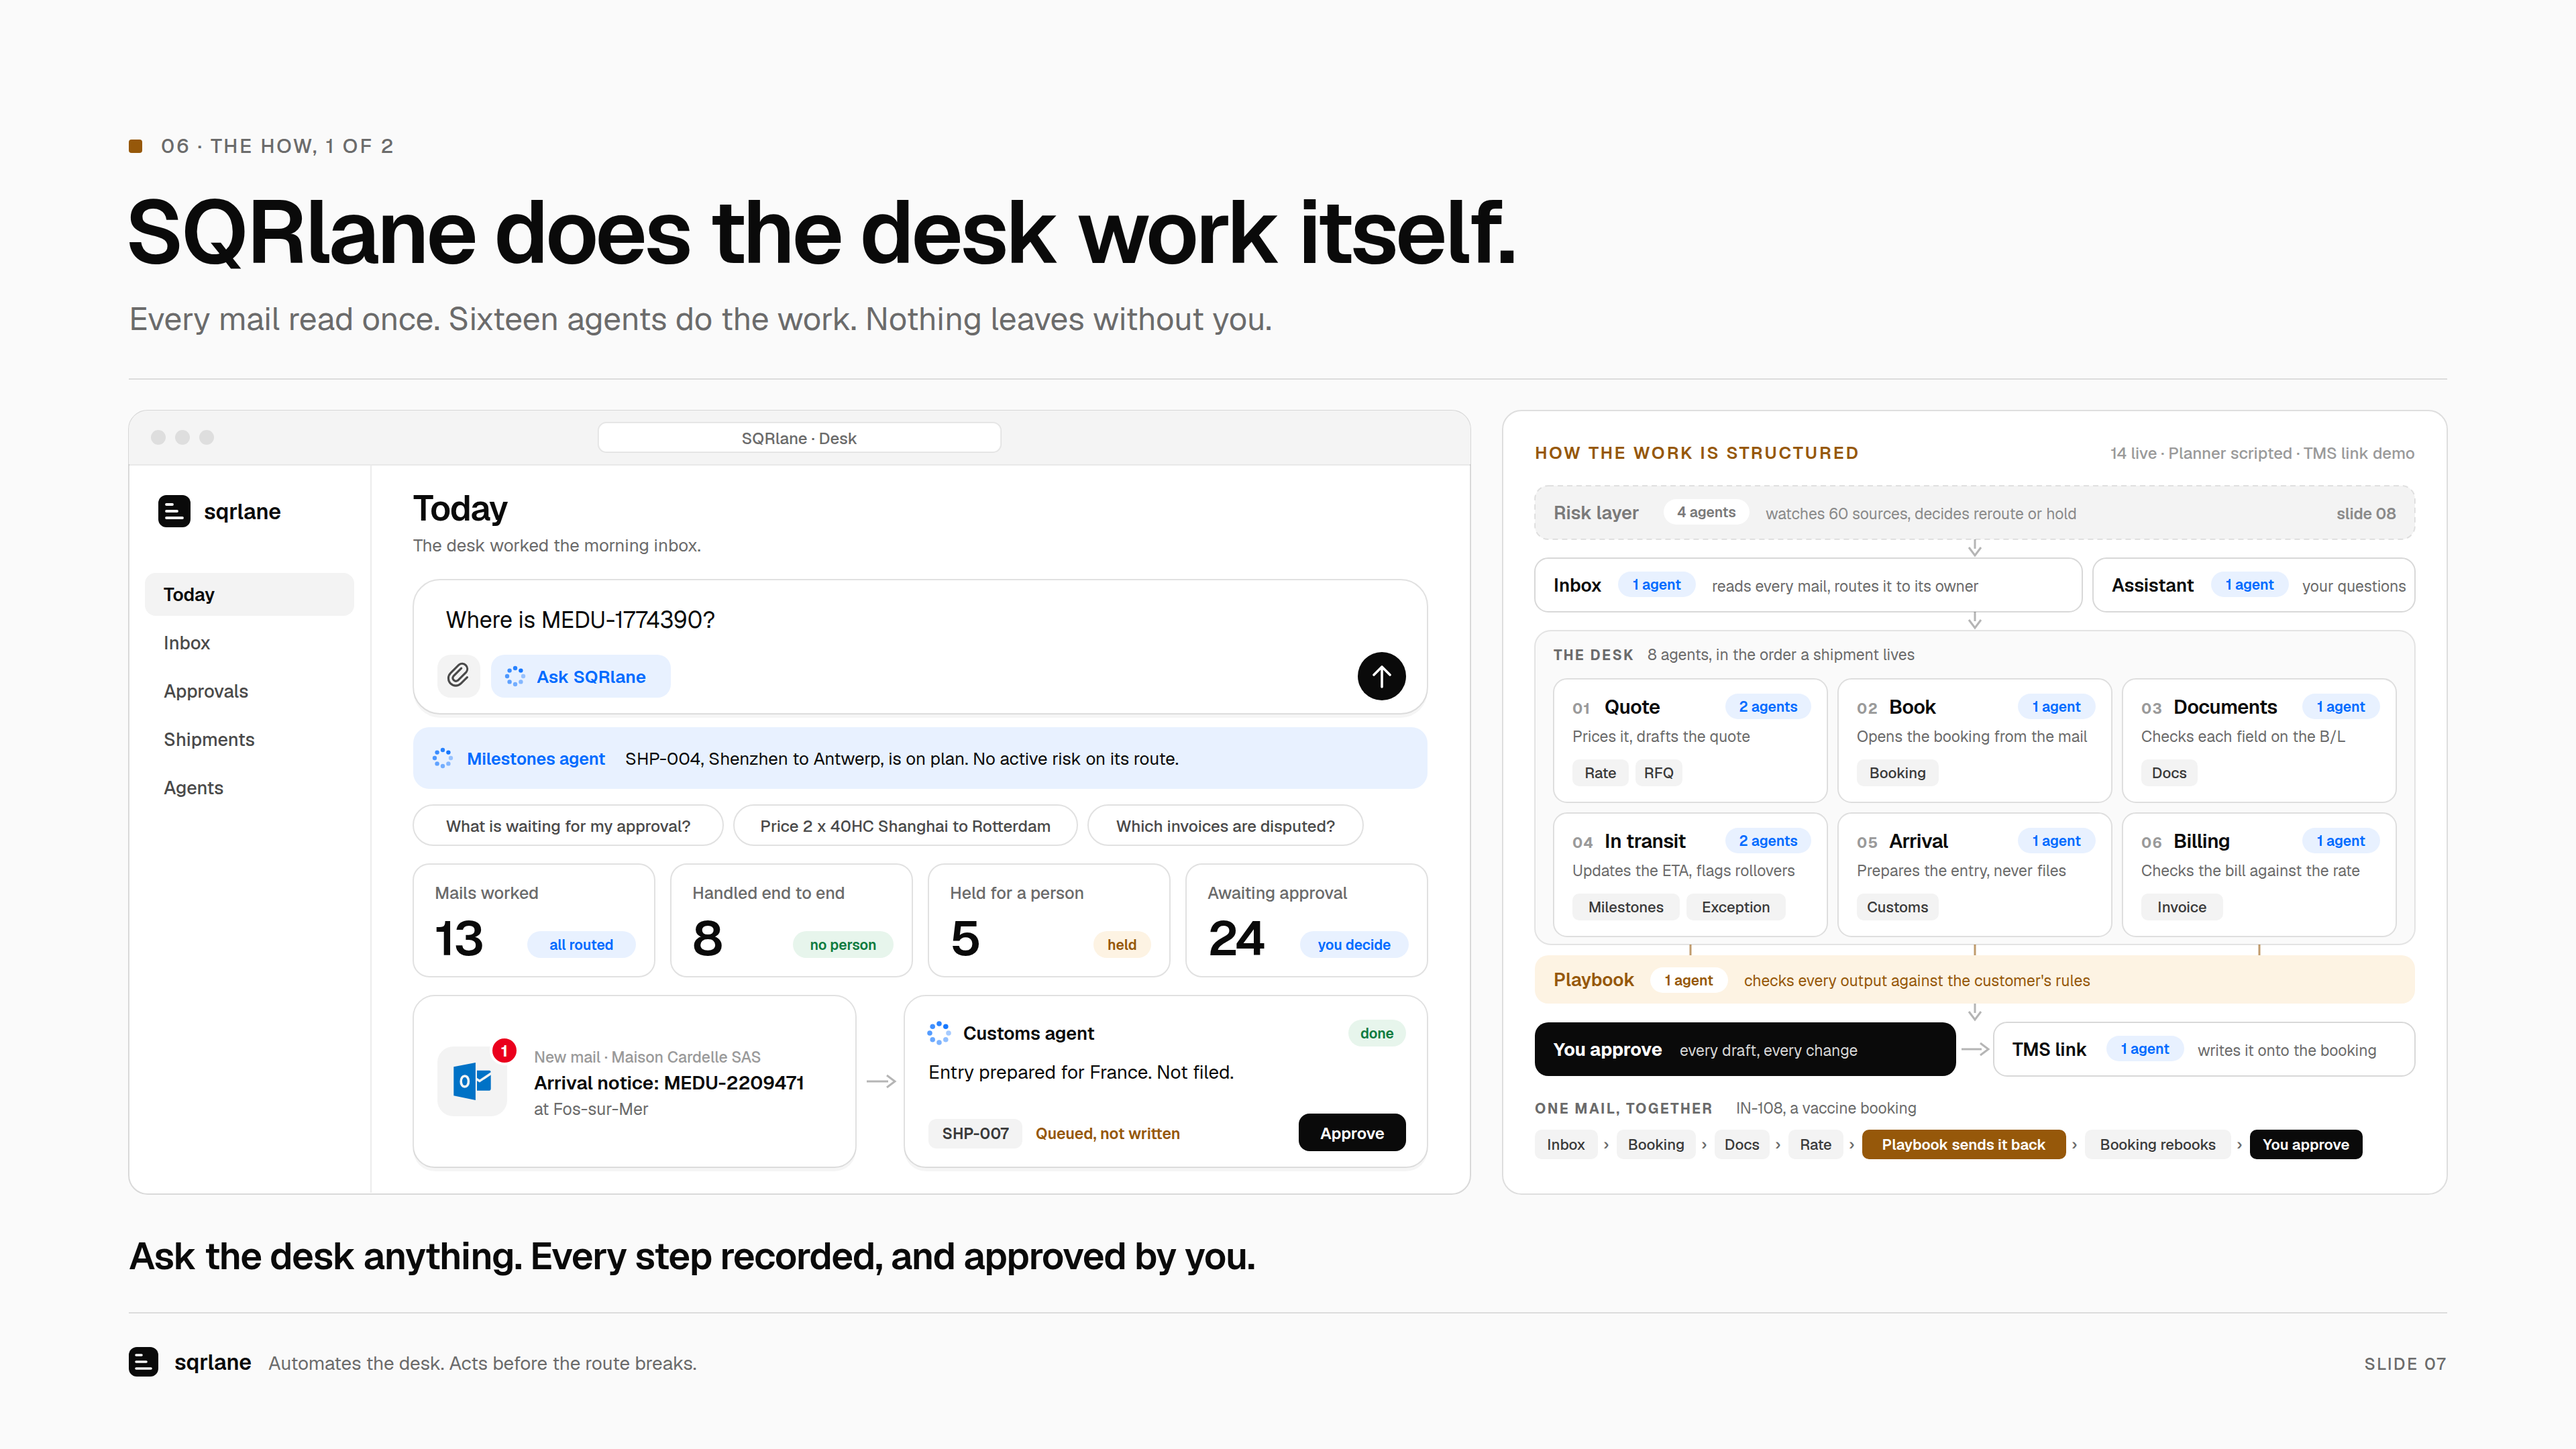
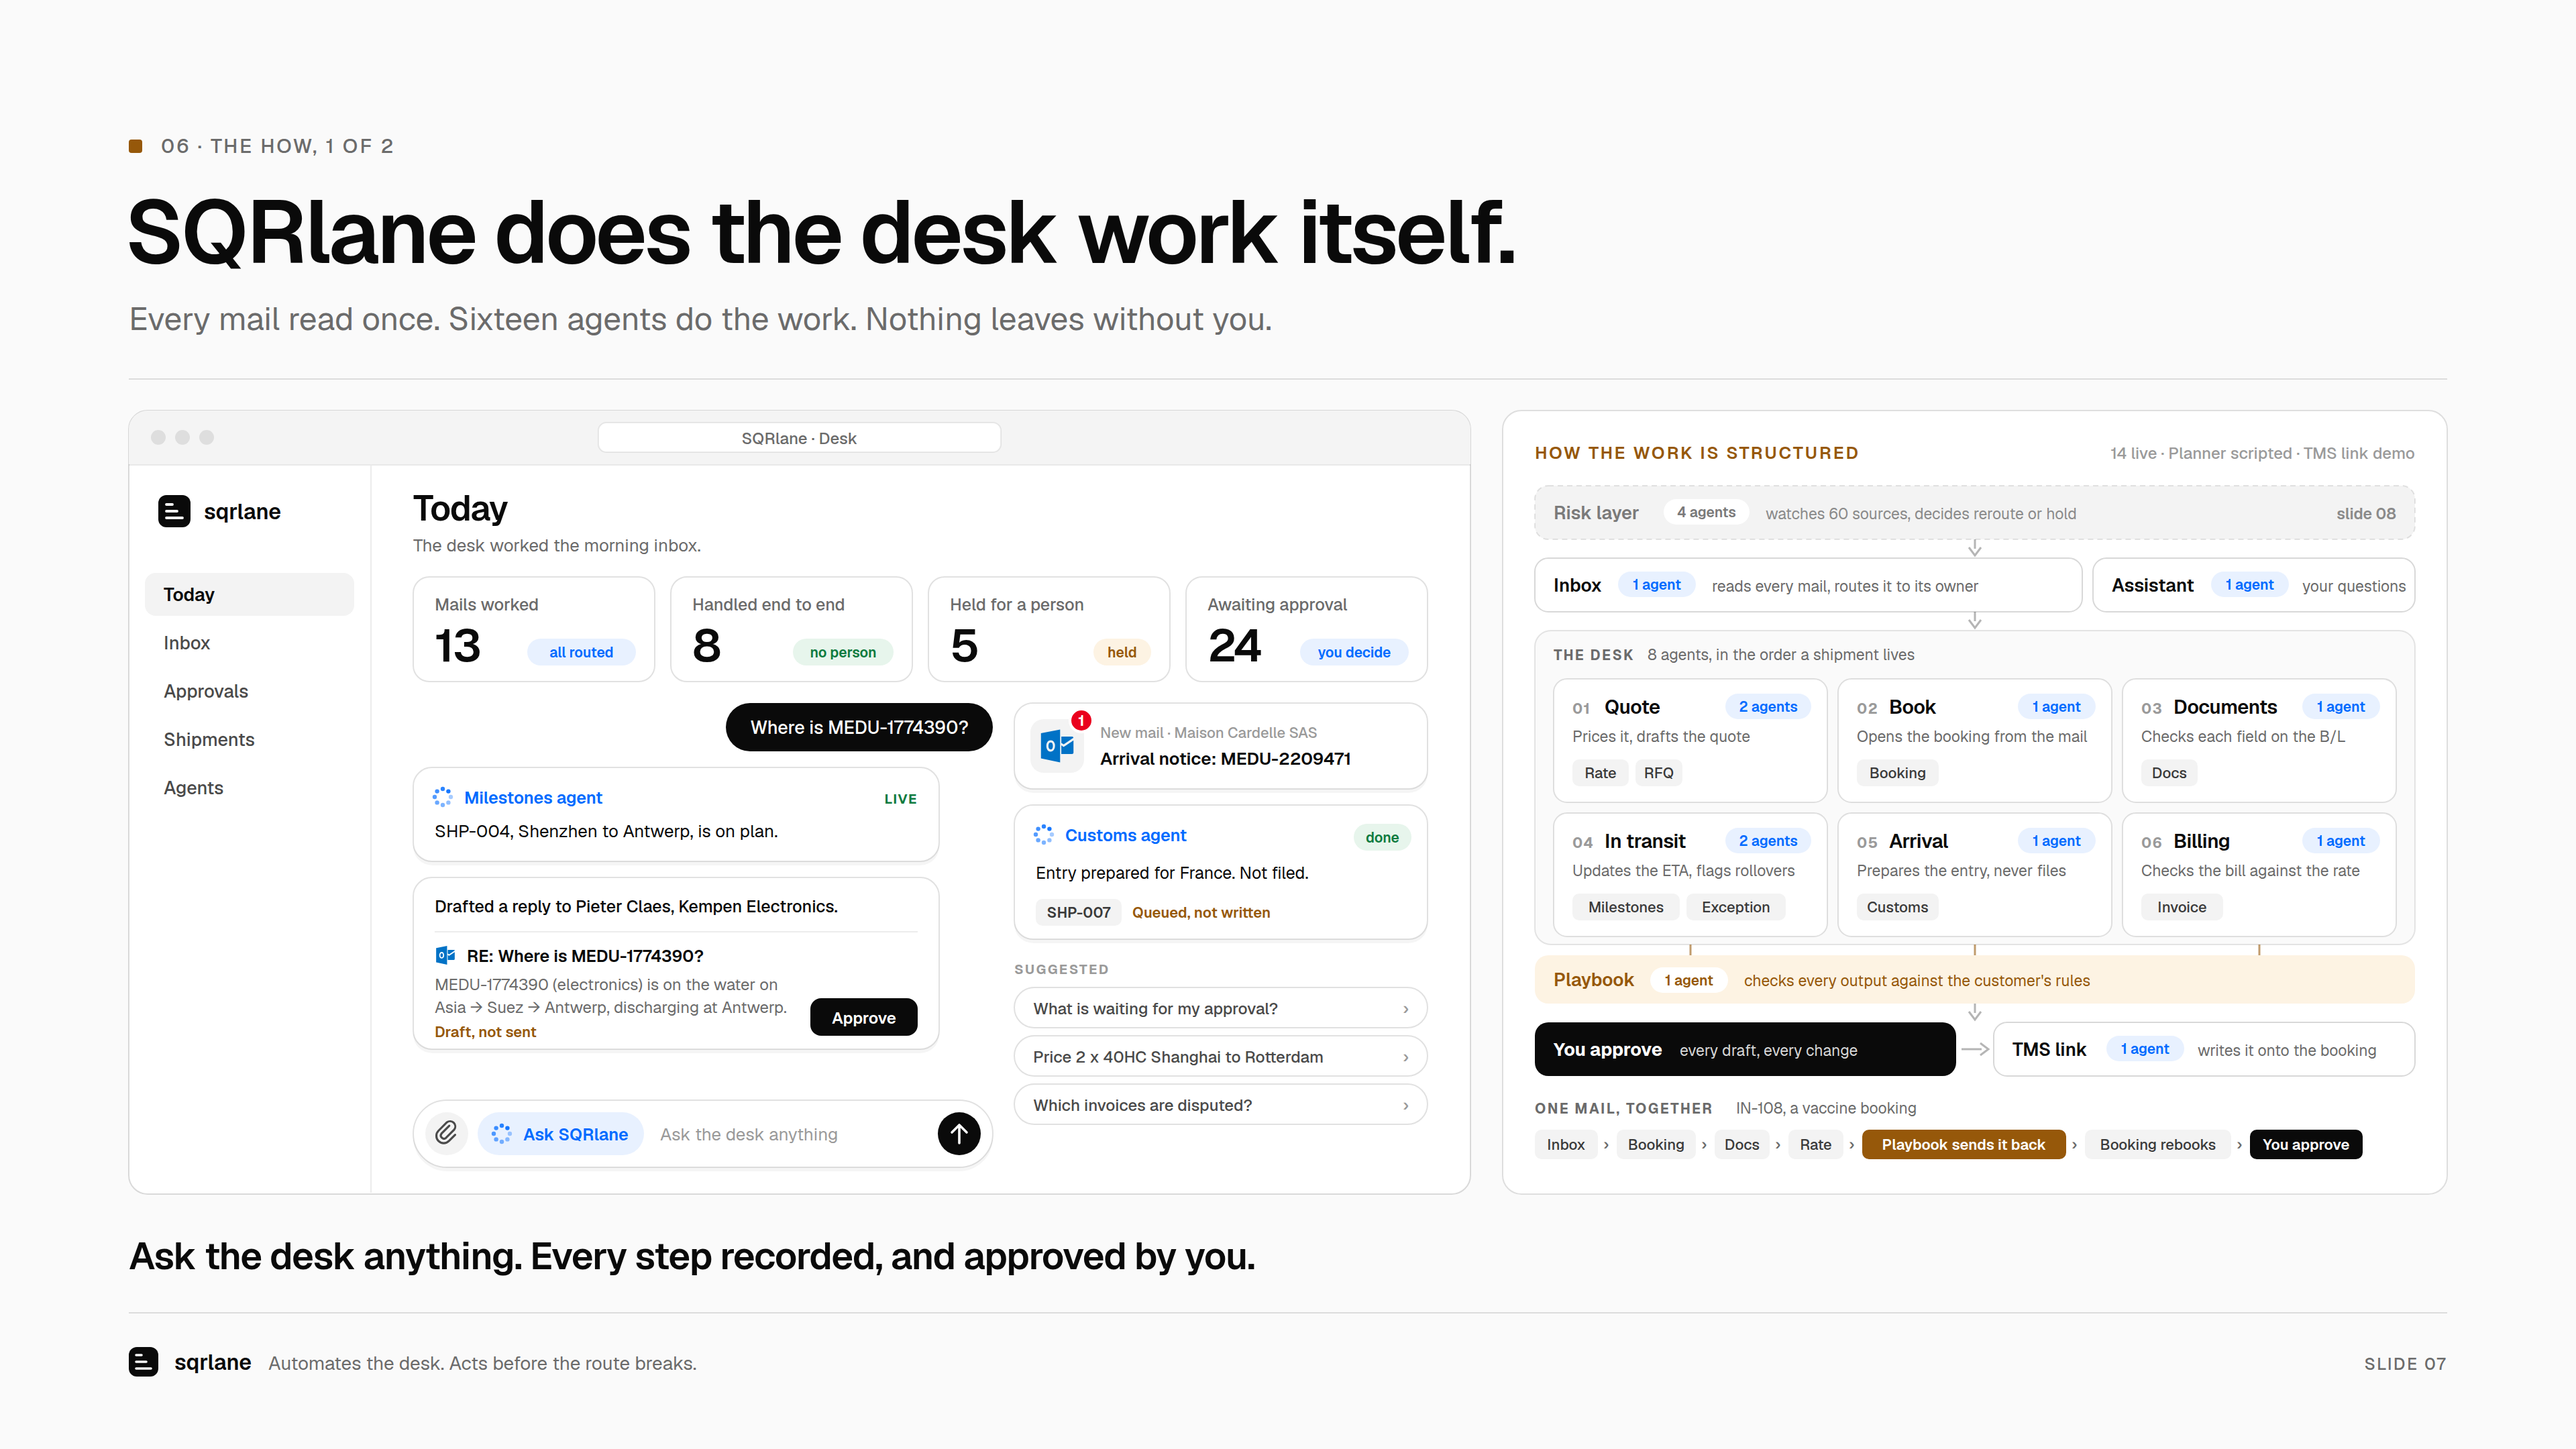
Deck v2 slide 07: the Ask area as a conversation, with the agent's draft waiting for approval
The question, the Milestones agent's answer and its real drafted reply to IN-106 read as a
thread, with the input at the foot; the mail feed and suggested questions sit beside it.

Claude-Session: https://claude.ai/code/session_014BsH9ow2RbGmbV9G28PBg8

Changed region(s): [[0.1562, 0.4032, 0.5625, 0.8065], [0.375, 0.4032, 0.4062, 0.4343]]

diff --git a/deck/v2/build_07.py b/deck/v2/build_07.py
@@ -76,45 +76,8 @@ s.T(MX, TOP + 82, "Today", 26, 600, ls=-0.6)
 s.T(MX, TOP + 105, "The desk worked the morning inbox.", 13, 400, MUT)
 s.end()
 
-# ---- the Ask box: a question, to the agent who owns it
-AY, AH = TOP + 126, 100
-s.g("ask-box")
-s.R(MX, AY + 3, MW, AH, INK, 20, ' fill-opacity="0.04"')          # soft shadow
-s.R(MX, AY, MW, AH, CARD, 20, f' stroke="{INK}" stroke-opacity="0.12"')
-s.T(MX + 24, AY + 36, "Where is MEDU-1774390?", 17, 400, INK)
-by = AY + AH - 44
-s.R(MX + 18, by, 32, 32, GREY_BG, 10)
-s.raw(f'<path d="M{MX+39} {by+11} l-7.5 7.5 a3 3 0 0 0 4.2 4.2 l8 -8 a5 5 0 0 0 -7 -7 l-8 8 a7 7 0 0 0 9.9 9.9 l6 -6" '
-      f'transform="translate(-2 -2) scale(0.78) translate({(MX+34)*0.282:.1f} {(by+16)*0.282:.1f})" stroke="#4A4A4A" stroke-width="2" fill="none" stroke-linecap="round"/>')
-s.R(MX + 58, by, 134, 32, BLUE_BG, 10)
-agent_mark(MX + 76, by + 16)
-s.T(MX + 92, by + 21, "Ask SQRlane", 13, 600, BLUE)
-s.raw(f'<circle cx="{MX + MW - 34}" cy="{by + 16}" r="18" fill="{INK}"/>')
-s.raw(f'<path d="M{MX+MW-34} {by+24} v-15 M{MX+MW-40} {by+15} l6 -6 l6 6" stroke="{CARD}" stroke-width="1.8" fill="none" stroke-linecap="round" stroke-linejoin="round"/>')
-s.end()
-
-# the answer - src/ask.py routes this question to the Milestones agent; its own words
-s.g("ask-answer")
-ay = AY + AH + 10
-s.R(MX, ay, MW, 46, BLUE_BG, 12)
-agent_mark(MX + 22, ay + 23)
-s.T(MX + 40, ay + 28, "Milestones agent", 12.5, 600, BLUE)
-s.T(MX + 158, ay + 28, "SHP-004, Shenzhen to Antwerp, is on plan. No active risk on its route.", 13, 400, INK)
-s.end()
-
-# suggested questions - each one answered by src/ask.py today
-s.g("suggestions")
-sy = ay + 58
-sx = MX
-for q in ("What is waiting for my approval?", "Price 2 x 40HC Shanghai to Rotterdam", "Which invoices are disputed?"):
-    w = round(len(q) * 6.4 + 26)
-    s.R(sx, sy, w, 30, CARD, 15, f' stroke="{INK}" stroke-opacity="0.12"')
-    s.T(sx + w / 2, sy + 20, q, 12, 500, "#4A4A4A", anchor="middle")
-    sx += w + 8
-s.end()
-
 # ---- four stat cards: label, pill, one number
-SCY, SCH, gap = sy + 44, 84, 12
+SCY, SCH, gap = TOP + 124, 78, 12
 scw = (MW - 3 * gap) / 4
 STATS = [("Mails worked", "all routed", BLUE_BG, BLUE, "13"),
          ("Handled end to end", "no person", GREEN_BG, GREEN, "8"),
@@ -124,43 +87,91 @@ s.g("stat-cards")
 for i, (lab, pl, pf, pi, val) in enumerate(STATS):
     x = MX + i * (scw + gap)
     s.card(x, SCY, scw, SCH, 12)
-    s.T(x + 16, SCY + 26, lab, 12.5, 500, MUT)
-    s.T(x + 16, SCY + 68, val, 36, 600, ls=-1.2)
-    pill(x + scw - 14, SCY + 50, pl, pf, pi)
+    s.T(x + 16, SCY + 25, lab, 12.5, 500, MUT)
+    s.T(x + 16, SCY + 63, val, 34, 600, ls=-1.2)
+    pill(x + scw - 14, SCY + 46, pl, pf, pi)
 s.end()
 
-# ---- a mail lands, an agent works it (IN-111 and the Customs agent's own output)
-NY = SCY + SCH + 14; NH = BOT - 20 - NY
-NW = 330
-s.g("mail-arrives")
-s.R(MX, NY + 3, NW, NH, INK, 16, ' fill-opacity="0.04"')
-s.R(MX, NY, NW, NH, CARD, 16, f' stroke="{INK}" stroke-opacity="0.12"')
-ix, iy = MX + 18, NY + NH / 2 - 26
-s.R(ix, iy, 52, 52, GREY_BG, 12)
-mark("Outlook", ix + 10, iy + 10, 32)
-s.raw(f'<circle cx="{ix + 50}" cy="{iy + 3}" r="10" fill="{RED}" stroke="{CARD}" stroke-width="2"/>')
-s.T(ix + 50, iy + 7.5, "1", 11.5, 700, CARD, anchor="middle")
-tx = ix + 72
-s.T(tx, NY + NH / 2 - 14, "New mail · Maison Cardelle SAS", 11.5, 500, GREY)
-s.T(tx, NY + NH / 2 + 6, "Arrival notice: MEDU-2209471", 14, 600)
-s.T(tx, NY + NH / 2 + 25, "at Fos-sur-Mer", 12.5, 400, MUT)
+CY0 = SCY + SCH + 16                      # the two feeds start here
+LW_ = 432                                 # the conversation's width
+RX_ = MX + LW_ + 16; RW_ = MX + MW - RX_  # the mail feed's
+
+def soft_card(x, y, w, h, r=14, fill=CARD):
+    s.R(x, y + 3, w, h, INK, r, ' fill-opacity="0.04"')
+    s.R(x, y, w, h, fill, r, f' stroke="{INK}" stroke-opacity="0.12"')
+
+# ---- the conversation: you ask, the owning agent answers, its draft waits for you.
+# Answer: ask.ask() routes the question to the Milestones agent (its own words, date left
+# out because bookings age forward). Draft: the Milestones agent's real reply to IN-106,
+# the same question from the customer, "DRAFT - not sent".
+s.g("conversation")
+cy = CY0
+q = "Where is MEDU-1774390?"
+qw = round(len(q) * 7.6 + 32)
+s.R(MX + LW_ - qw, cy, qw, 36, INK, 18)
+s.T(MX + LW_ - qw / 2, cy + 23, q, 13.5, 500, CARD, anchor="middle")
+cy += 48
+soft_card(MX, cy, LW_ - 40, 70)
+agent_mark(MX + 22, cy + 22)
+s.T(MX + 38, cy + 27, "Milestones agent", 12.5, 600, BLUE)
+s.T(MX + LW_ - 56, cy + 27, "LIVE", 10, 700, GREEN, anchor="end", ls=0.8)
+s.T(MX + 16, cy + 52, "SHP-004, Shenzhen to Antwerp, is on plan.", 13, 400, INK)
+cy += 82
+DH_ = 128
+soft_card(MX, cy, LW_ - 40, DH_)
+s.T(MX + 16, cy + 26, "Drafted a reply to Pieter Claes, Kempen Electronics.", 12.5, 500, INK)
+s.rule(cy + 40, 0.08, MX + 16, LW_ - 72)
+mark("Outlook", MX + 16, cy + 50, 16)
+s.T(MX + 40, cy + 63, "RE: Where is MEDU-1774390?", 12.5, 600)
+s.T(MX + 16, cy + 84, "MEDU-1774390 (electronics) is on the water on", 12, 400, MUT)
+s.T(MX + 16, cy + 101, "Asia → Suez → Antwerp, discharging at Antwerp.", 12, 400, MUT)
+s.T(MX + 16, cy + 119, "Draft, not sent", 11, 600, AMBR)
+s.R(MX + LW_ - 40 - 96, cy + DH_ - 38, 80, 28, INK, 8)
+s.T(MX + LW_ - 40 - 56, cy + DH_ - 19, "Approve", 12, 600, CARD, anchor="middle")
 s.end()
-ax0 = MX + NW
-s.line(ax0 + 8, NY + NH / 2, ax0 + 24, NY + NH / 2, INK, 0.3, 1.5)
-s.raw(f'<path d="M{ax0+23} {NY+NH/2-4.5} L{ax0+29} {NY+NH/2} L{ax0+23} {NY+NH/2+4.5}" stroke="{INK}" stroke-opacity="0.3" stroke-width="1.5" fill="none"/>')
-GX = ax0 + 36; GWd = MX + MW - GX
-s.g("agent-works-it")
-s.R(GX, NY + 3, GWd, NH, INK, 16, ' fill-opacity="0.04"')
-s.R(GX, NY, GWd, NH, CARD, 16, f' stroke="{INK}" stroke-opacity="0.12"')
-agent_mark(GX + 26, NY + 28, 7)
-s.T(GX + 44, NY + 33, "Customs agent", 13.5, 600)
-pill(GX + GWd - 16, NY + 18, "done", GREEN_BG, GREEN)
-s.T(GX + 18, NY + 62, "Entry prepared for France. Not filed.", 14, 400, INK)
-s.R(GX + 18, NY + NH - 36, 70, 22, GREY_BG, 6)
-s.T(GX + 53, NY + NH - 21, "SHP-007", 11.5, 600, "#3A3A3A", anchor="middle")
-s.T(GX + 98, NY + NH - 21, "Queued, not written", 11.5, 600, AMBR)
-s.R(GX + GWd - 96, NY + NH - 40, 80, 28, INK, 8)
-s.T(GX + GWd - 56, NY + NH - 21, "Approve", 12, 600, CARD, anchor="middle")
+
+# the input, at the foot of the thread
+IY = BOT - 20 - 50
+s.g("ask-box")
+soft_card(MX, IY, LW_, 50, 25)
+s.R(MX + 9, IY + 9, 32, 32, GREY_BG, 16)
+s.raw(f'<path d="M{MX+30} {IY+20} l-7.5 7.5 a3 3 0 0 0 4.2 4.2 l8 -8 a5 5 0 0 0 -7 -7 l-8 8 a7 7 0 0 0 9.9 9.9 l6 -6" '
+      f'transform="translate(-2 -2) scale(0.78) translate({(MX+25)*0.282:.1f} {(IY+25)*0.282:.1f})" stroke="#4A4A4A" stroke-width="2" fill="none" stroke-linecap="round"/>')
+s.R(MX + 48, IY + 9, 124, 32, BLUE_BG, 16)
+agent_mark(MX + 66, IY + 25)
+s.T(MX + 82, IY + 30, "Ask SQRlane", 12.5, 600, BLUE)
+s.T(MX + 184, IY + 30, "Ask the desk anything", 13, 400, GREY)
+s.raw(f'<circle cx="{MX + LW_ - 25}" cy="{IY + 25}" r="16" fill="{INK}"/>')
+s.raw(f'<path d="M{MX+LW_-25} {IY+32} v-13 M{MX+LW_-30.5} {IY+24} l5.5 -5.5 l5.5 5.5" stroke="{CARD}" stroke-width="1.8" fill="none" stroke-linecap="round" stroke-linejoin="round"/>')
+s.end()
+
+# ---- the mail feed: a mail lands, the agent that owns it works it (IN-111, Customs)
+s.g("mail-feed")
+fy = CY0
+soft_card(RX_, fy, RW_, 64)
+s.R(RX_ + 12, fy + 12, 40, 40, GREY_BG, 10)
+mark("Outlook", RX_ + 18, fy + 18, 28)
+s.raw(f'<circle cx="{RX_ + 50}" cy="{fy + 13}" r="8.5" fill="{RED}" stroke="{CARD}" stroke-width="2"/>')
+s.T(RX_ + 50, fy + 17, "1", 10.5, 700, CARD, anchor="middle")
+s.T(RX_ + 64, fy + 26, "New mail · Maison Cardelle SAS", 11, 500, GREY)
+s.T(RX_ + 64, fy + 46, "Arrival notice: MEDU-2209471", 13, 600)
+fy += 76
+soft_card(RX_, fy, RW_, 100)
+agent_mark(RX_ + 22, fy + 22)
+s.T(RX_ + 38, fy + 27, "Customs agent", 12.5, 600, BLUE)
+pill(RX_ + RW_ - 12, fy + 14, "done", GREEN_BG, GREEN)
+s.T(RX_ + 16, fy + 55, "Entry prepared for France. Not filed.", 12.5, 400, INK)
+s.R(RX_ + 16, fy + 70, 64, 20, GREY_BG, 5)
+s.T(RX_ + 48, fy + 84, "SHP-007", 11, 600, "#3A3A3A", anchor="middle")
+s.T(RX_ + 88, fy + 84, "Queued, not written", 11, 600, AMBR)
+fy += 116
+s.T(RX_, fy + 10, "SUGGESTED", 10, 700, GREY, ls=1.2)
+fy += 20
+for q in ("What is waiting for my approval?", "Price 2 x 40HC Shanghai to Rotterdam", "Which invoices are disputed?"):
+    s.R(RX_, fy, RW_, 30, CARD, 15, f' stroke="{INK}" stroke-opacity="0.12"')
+    s.T(RX_ + 14, fy + 20, q, 12, 500, "#4A4A4A")
+    s.T(RX_ + RW_ - 14, fy + 20, "›", 13, 500, GREY, anchor="end")
+    fy += 36
 s.end()
 s.end()
 

diff --git a/deck/v2/HANDOFF.md b/deck/v2/HANDOFF.md
@@ -35,15 +35,15 @@ in git at `d4af2cc:deck/v2/slide-06-the-job-2-b.svg` if the owner asks again.
 
 ## Slide 07, current version (fourth rebuild, 2026-09-30)
 
-- **Left, the Today view:** window bar ("SQRlane · Desk"), sidebar without counts, "Today"
-  header (no button), the **Ask SQRlane** box with "Where is MEDU-1774390?" and, under it,
-  the real answer: `ask.ask()` routes it to the Milestones agent, which says SHP-004 is
-  on plan with no active risk (the date is left out, because bookings age forward).
-  Three suggested questions, each answered by `ask.ask()` today. Four stat cards
-  (13 / 8 / 5 / 24). Then an **Outlook notification** (official mark from
-  `channel_marks.json`, red badge) for IN-111, "Arrival notice: MEDU-2209471 at
-  Fos-sur-Mer", and the **Customs agent's** real output for it: "Entry prepared for
-  France. Not filed." on SHP-007, queued, not written, with an Approve button.
+- **Left, the Today view (now a conversation, after the Zauber reference):** four stat
+  cards (13 / 8 / 5 / 24) on top. Under them, left: a chat thread. You ask "Where is
+  MEDU-1774390?"; the Milestones agent answers (`ask.ask()` routes it there: SHP-004 is
+  on plan); then "Drafted a reply to Pieter Claes, Kempen Electronics." with the draft
+  card "RE: Where is MEDU-1774390?" - the Milestones agent's real reply to IN-106, the
+  same question from the customer, marked "Draft, not sent" with an Approve button (never
+  Send: nothing in this build sends). The Ask input sits at the foot of the thread.
+  Right: the Outlook notification for IN-111 and the Customs agent's real output, then
+  three suggested questions, each answered by `ask.ask()` today.
 - **The "Demo run · synthetic inbox" label was removed on the owner's instruction.** The
   figures are still counts from one run on the synthetic inbox, so say that out loud when
   presenting. The remaining disclosures: "14 live · Planner scripted · TMS link demo" in
